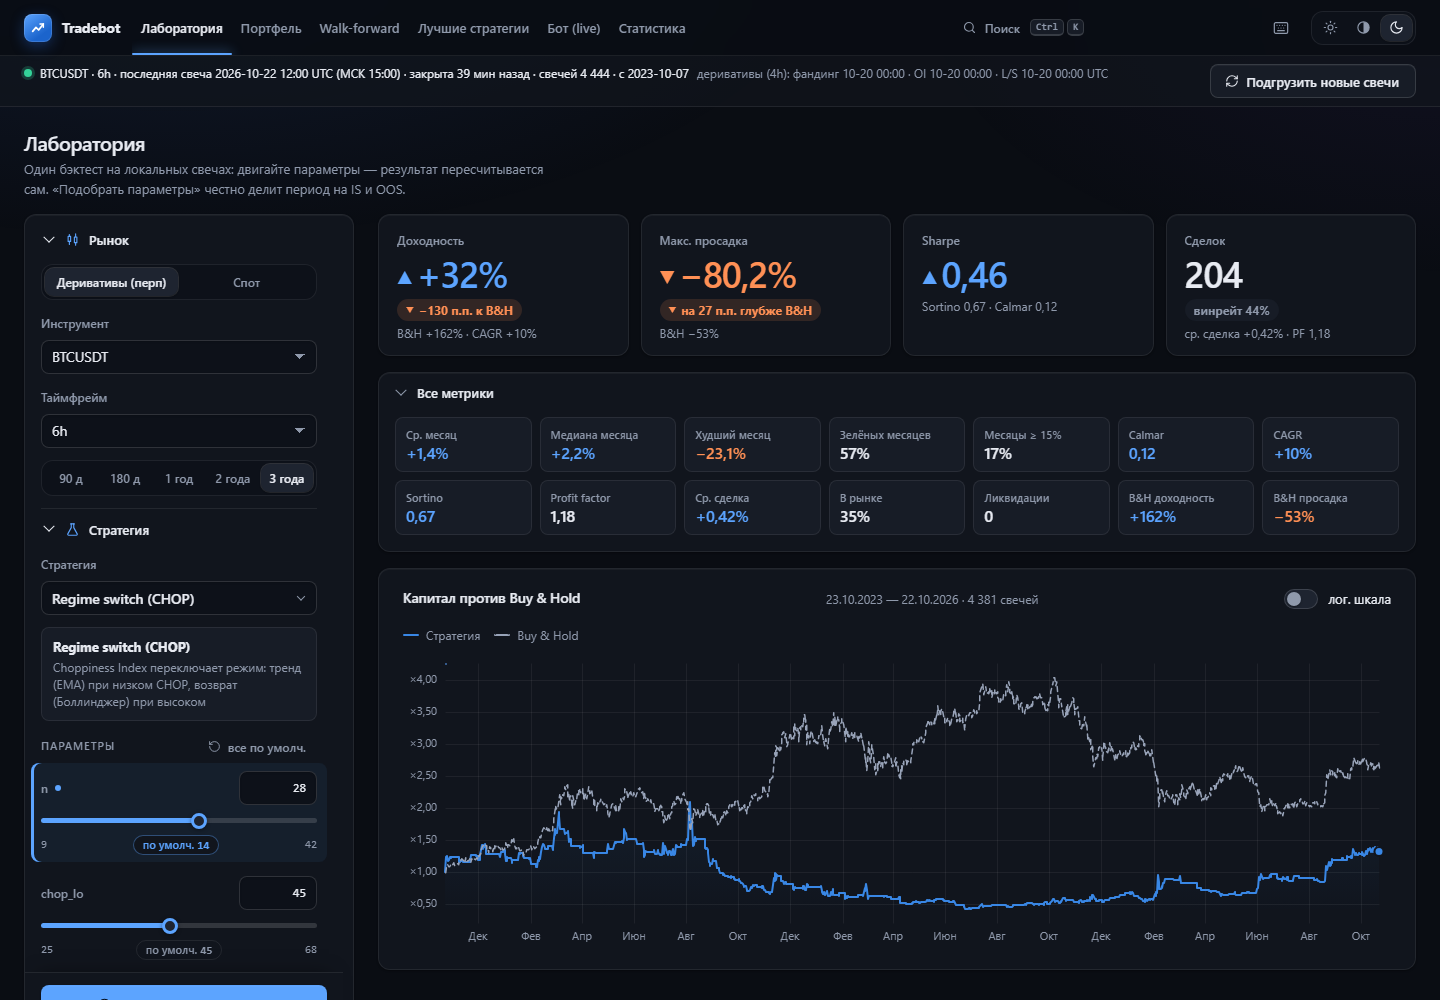
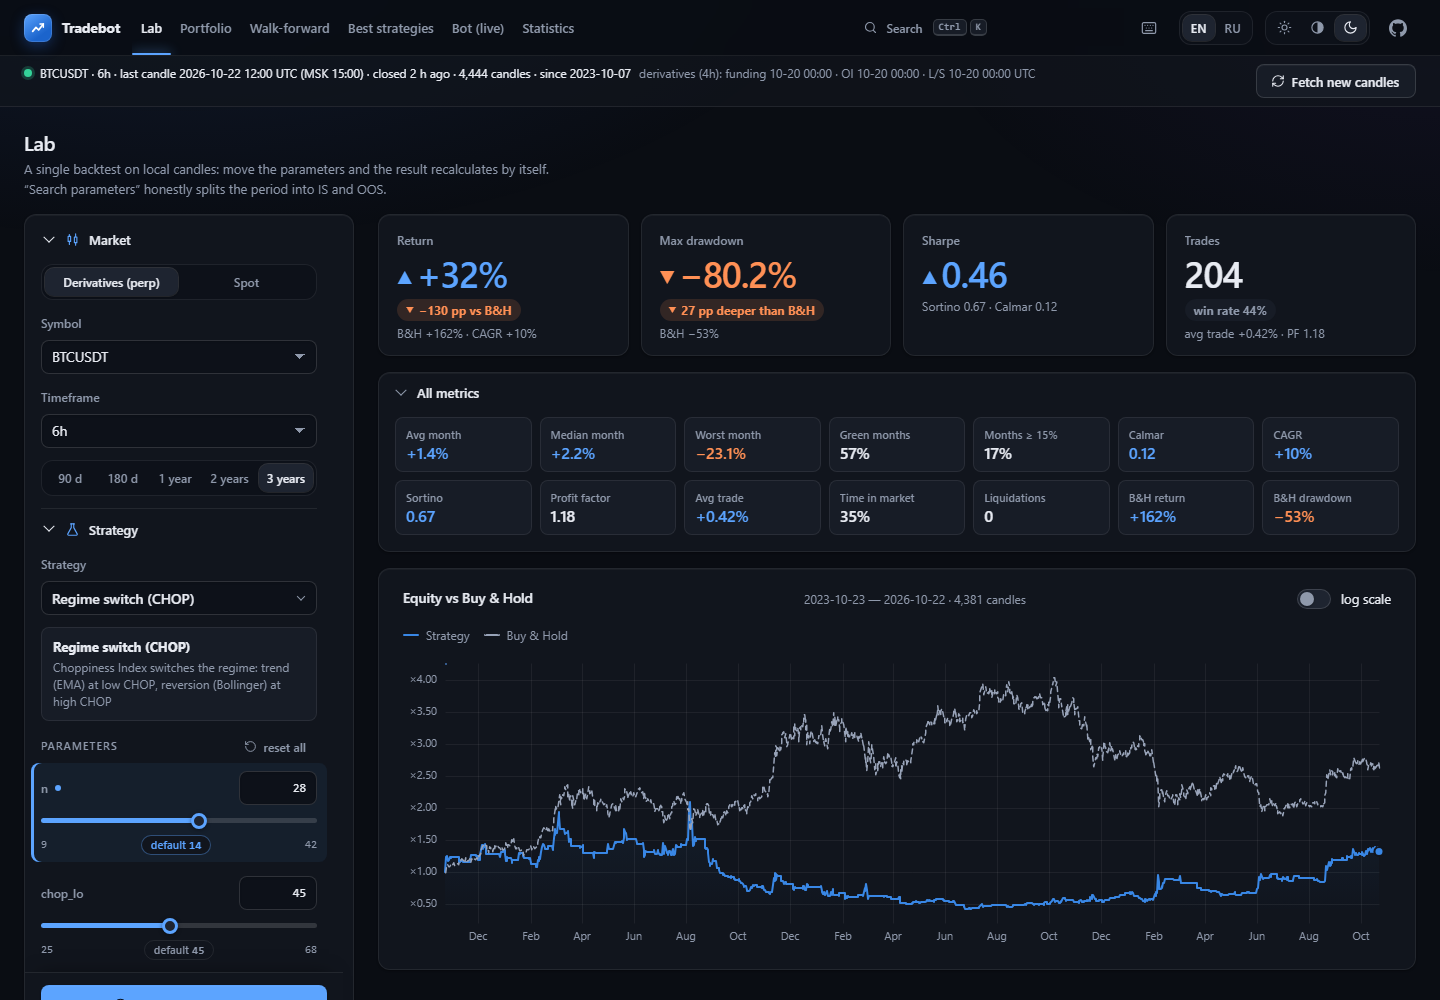
docs: language setting, i18n guide, English and Russian screenshots

diff --git a/web/DESIGN.md b/web/DESIGN.md
@@ -157,3 +157,29 @@
 В поле поиска стратегии: `↑/↓/Home/End` — выбор, `Enter` — применить, `Esc` — закрыть и вернуть название; `Tab` закрывает список.
 `1…6` — вкладки (не срабатывает при вводе в поля и открытом диалоге), `Ctrl/Cmd+K` или `/` — командная палитра, `?` — справка по клавишам, `Esc` — закрыть диалог/справку, `←/→` на вкладках — соседняя вкладка.
 Подсказки `(клавиша N)` — в `title` вкладок; цифры-плашки показываются на экранах ≥ 1560 px.
+
+## 7. Языки (i18n): английский по умолчанию и русский
+Интерфейс двуязычный. Язык выбирается один раз при загрузке страницы: `?lang=en|ru` (временно, не сохраняется) > `localStorage["tb.lang"]` (выбор переключателя EN | RU в шапке) >
+`<meta name="tb-default-lang">` (сервер подставляет язык из `APP_LANGUAGE` в `.env` при отдаче `index.html`) > `en`. Тот же порядок — в inline-скрипте `index.html` (он ставит
+`<html lang>` и заголовок до первой отрисовки) и в `i18n/index.ts: detectLang()`. Переключатель (`ui/langSwitch.ts`) сохраняет выбор, дописывает отложенные записи состояния
+(`flushSaves`) и **перезагружает страницу**: DOM строится императивно и вызывает `t()` при построении, поэтому перерисовки «на лету» нет, а константы модулей (заголовки, словари
+вердиктов) спокойно считаются при импорте.
+
+* **Слой.** `src/i18n/` — самый нижний слой: его импортируют `ui/`, `charts/` и `tabs/`, он не импортирует из них (проверяет `layering.test.ts`).
+* **Словари.** `i18n/messages/<пространство>.ts` (`common server strategies lab portfolio leaderboard live stats charts definitions stored`): `export const en = {...} satisfies Record<string, Msg>;`
+  `export const ru: Record<keyof typeof en, Msg> = {...}` — компилятор требует одинаковые ключи. Ключ начинается с префикса пространства (`lab.`, `live.`, …). Сообщение — строка с `{имя}`,
+  набор форм `{one, few, many, other}` (число — `params.n`; ru: все четыре формы, en: `one/other`) или список строк (месяцы, дни недели). `strategies.json` и `definitions.json` — JSON, чтобы pytest
+  (`tests/test_i18n_catalog.py`) сверял русские копии с серверными текстами.
+* **API.** `t(key, params)`, `tDyn(key)` (ключ собран на лету, нет ключа — `undefined`), `tList(key)`, `getLang()`, `localeTag()`. Даты, числа и единицы — только через `ui/fmt.ts` и `ui/fmtTime.ts`
+  (ru: `1 234,50`, `50 $`, `дд.мм.гг`; en: `1,234.50`, `$50`, `ГГГГ-ММ-ДД`): не зашивайте ` $`, `ru-RU`, `дд.мм` и слова единиц.
+* **Тексты сервера.** Сервер отдаёт русский текст как запасной. Если есть стабильное имя или код, перевод берётся из словаря: описание стратегии по имени (`strategyDesc`), определение метрики по
+  ключу (`metricDefinition`), ошибки API по коду (`apiErrors.ts`, сообщения составляются из кода и полей; для неизвестного кода — серверное сообщение как есть), причины пустых карточек рейтинга по
+  `reason_code`. Серверные сообщения о консоли и ошибках идут на языке `APP_LANGUAGE`, поэтому сопоставление по тексту (`apiErrors.ts`) знает обе версии.
+* **Русские данные из БД.** Бот хранит русские `trades.reason`, `roundtrips.reason`, `kill_reason`; `i18n/storedText.ts` (`reasonLabel`, `whyLabel`, `killReasonLabel`) переводит известные значения при
+  показе (для ru — строка без изменений); логика (группировка, `includes("реконструкция")`) всегда идёт по исходной строке. `events[].text` — текст Telegram-уведомлений, показывается как сохранён
+  (останется русским, пока Telegram не локализован).
+* **Не переводится.** Текст «для бота» (`ui/clipboard.ts`, `tabs/portfolio.ts`, `result` в предложении) — протокол русского Telegram-бота, его разбирает `core/legspec.py`; имена стратегий, параметров, символы.
+* **Тесты.** `tests/setup.ts` закрепляет язык `ru` для всех тестов (вывод ru обязан совпадать с прежним), английский проверяют `tests/en*.test.ts` через `tests/enHelpers.ts` (`importEn`, `cyrillicIn`);
+  `tests/i18n.test.ts` — целостность словарей (ключи, префиксы, плейсхолдеры, формы множественного числа, кириллица в en); `tests/noRussianLiterals.test.ts` — в коде нет русских литералов вне словарей
+  (исключения перечислены с причинами).
+* **Новый язык.** Добавьте код в `i18n/index.ts` (`LANGS`, `isLang`, `localeTag`, inline-скрипт `index.html`), файл-перевод в каждое пространство, форматы дат/чисел в `fmt.ts`/`fmtTime.ts` и значение в `i18n.py` (`LANGS`).

diff --git a/README.md b/README.md
@@ -25,7 +25,7 @@ The same strategy and engine code is used by the backtester and the live bot, an
 > **The bot trades on Bybit mainnet with real money, using the whole account balance.** There is no testnet or paper mode. Strategies do not guarantee profit and you can lose the entire deposit. Backtests are hypothetical. This is not financial advice; the code is provided as is, and you are responsible for your keys, leverage and risk limits.
 
 > [!NOTE]
-> The Telegram panel and the dashboard are in Russian. Documentation is available in English and Russian.
+> The dashboard and the console speak English and Russian: English by default, switch the dashboard with the **EN | RU** control in its header and set the default (dashboard and console) with `APP_LANGUAGE` in `.env`. The Telegram panel is Russian only for now.
 
 ## ✨ Features
 
@@ -34,6 +34,7 @@ The same strategy and engine code is used by the backtester and the live bot, an
 - 🛡 **Protection:** exchange-side stop on every position, kill-switch on drawdown from peak and on daily loss, API-key preflight (trading is blocked if the key can withdraw or is read-only), single-instance lock, hard leverage cap of 3×.
 - 📟 **Telegram control panel:** one self-updating message (Home / Position / Signals), risk settings, leg editor, trade notifications with P/L in dollars and in percent of the account, daily summary. Owner-only.
 - 📊 **Web dashboard** (dark and light theme, `Ctrl+K` palette): Lab, Portfolio, Walk-forward, Best strategies, Live, Statistics.
+- 🌐 **Two languages:** English (default) and Russian for the dashboard and the console, chosen in `.env` (`APP_LANGUAGE`); the dashboard also has an EN | RU switch that remembers your choice.
 - 🧮 **Exact P/L:** closed trades are reconciled with Bybit `closed-pnl` (fees and funding included), so the dashboard and Telegram show the same dollars.
 - 🔬 **Honest research tools:** in-sample/out-of-sample split, walk-forward, verdicts that flag overfitting, fees at 0.1 % by default, slippage, funding, liquidation model, leverage up to 100×.
 - 💾 **Operations:** SQLite (WAL) state with schema migrations, daily backups, log rotation, restart wrapper, read-only `--check`, optional heartbeat watchdog.
@@ -71,7 +72,7 @@ Trend (EMA/SMA cross, Supertrend, Donchian, Keltner, Ichimoku, Parabolic SAR, KA
 
 ## 🖼 Screenshots
 
-Backtests on public market data (no account data); they illustrate the UI and are not a performance claim.
+Backtests on public market data (no account data); they illustrate the UI and are not a performance claim. The dashboard is shown in English; the Russian screenshots are in [README_RU.md](README_RU.md).
 
 **Lab** — one backtest, parameters recompute the result live:
 
@@ -110,6 +111,7 @@ Copy-Item .env.example .env
 Fill in `.env` (it is git-ignored and values are never printed):
 
 ```dotenv
+APP_LANGUAGE=en
 TELEGRAM_BOT_TOKEN=<number>:<string>
 TELEGRAM_OWNER_ID=123456789
 BYBIT_API_KEY=...
@@ -134,7 +136,7 @@ Trading is **off** after the first start: open the Telegram panel, review the ri
 python -m tradebot.web
 ```
 
-On first launch the Lab offers to download candles from Bybit's public API.
+On first launch the Lab offers to download candles from Bybit's public API. This mode reads only `APP_LANGUAGE` from `.env` (no keys needed).
 
 ## ⚙ Configuration
 
@@ -143,6 +145,7 @@ On first launch the Lab offers to download candles from Bybit's public API.
 | `TELEGRAM_BOT_TOKEN` | yes | Bot token from @BotFather |
 | `TELEGRAM_OWNER_ID` | yes | Numeric id of the only user who can control the bot |
 | `BYBIT_API_KEY`, `BYBIT_API_SECRET` | yes | Mainnet key; both are required |
+| `APP_LANGUAGE` | no | `en` (default) or `ru`: language of the console, logs, `--check` report and the dashboard default. Any other value stops startup (exit code 4). Telegram stays Russian |
 | `TZ_NAME` | no | Time zone for Telegram messages (default `Europe/Moscow`) |
 
 Runtime settings live in the bot database and are changed from Telegram (ranges are validated server-side):
@@ -169,13 +172,14 @@ The config is mainnet-only and fail-closed: `PAPER` or `BYBIT_ENV=testnet` in `.
 ```text
 .
 ├── src/tradebot/
+│   ├── i18n.py       # console/API language (APP_LANGUAGE): tr("English text") with Russian translations in i18n_ru.py
 │   ├── core/         # backtest engine, indicators, strategies, portfolio (single source of target exposure)
 │   ├── market/       # candles, funding, OI, long/short ratio: download and parquet cache
 │   ├── research/     # sweeps and walk-forward
 │   ├── trading/      # exchange client, executor, runner, risk, SQLite state, P/L
 │   ├── telegram/     # aiogram panel, notifications, confirmations
 │   └── web/          # FastAPI backend of the dashboard
-├── web/              # dashboard frontend (TypeScript + esbuild + uPlot), design rules in DESIGN.md
+├── web/              # dashboard frontend (TypeScript + esbuild + uPlot), design rules and i18n in DESIGN.md; texts in src/i18n/messages
 ├── tools/watchdog.py # optional heartbeat watchdog that alerts via Telegram
 ├── tests/            # pytest suite with an exchange fake in tests/fakes
 ├── run.bat           # Windows launcher with restart backoff
@@ -205,7 +209,7 @@ Tests never touch the network. Keep real keys out of tests; the tree must stay i
 - One symbol (BTCUSDT linear perpetual), one process, one Unified Account, isolated margin, one-way mode.
 - Market orders only, so taker fees apply; backtests assume 0.1 % per side plus slippage (change it in the Lab to match your fee tier).
 - Signals are defined on closed bars. Re-evaluating on a rolling bar looks attractive but loses to noise and fees in backtests.
-- The dashboard and Telegram interface are in Russian only.
+- The Telegram interface is Russian only (the dashboard and the console are bilingual). Trade reasons and notification texts that the bot stores in its database are Russian and are shown as stored (known trade reasons are translated in the English dashboard).
 - Past performance, backtests and walk-forward results do not predict future returns.
 
 ## 📄 License
